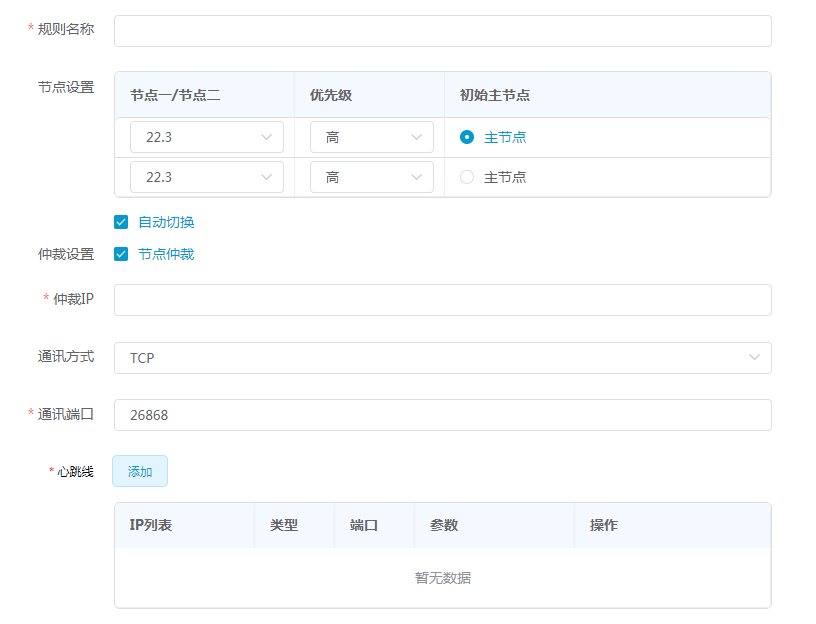
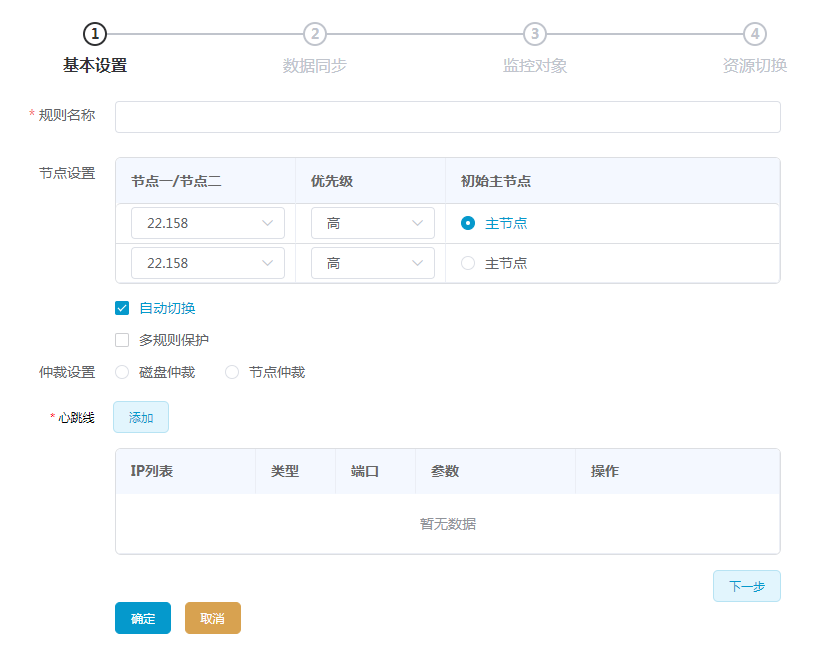
HA模块跟进6.2，新建页面加入多规则保护和磁盘仲裁选项;

diff --git a/i2availability/new_ha_rep.md b/i2availability/new_ha_rep.md
@@ -22,9 +22,13 @@
 
 *   “自动切换”：勾选自动切换时，当HA规则达到切换标准时，会自动从主节点切换为从节点；不勾选时，当HA规则达到切换标准时，在界面规则状态中会提示警告信息；
 
-*   “仲裁设置”：使用节点仲裁时需要设置一个仲裁ip地址，这个仲裁ip所在的主机需要安装i2节点软件，并且i2Availability进程正常运行，在心跳线全部失效的情况下，要用到仲裁机制来判断谁能接管资源；
+*   “多规则保护”：用于控制多规则保护情况下是否切换；
 
- **注**：当前只支持节点仲裁
+*   “仲裁设置”：分为磁盘仲裁和节点仲裁：
+    
+    勾选磁盘仲裁时需要设置一个仲裁磁盘;
+
+    勾选节点仲裁时需要设置一个仲裁ip地址，这个仲裁ip所在的主机需要安装i2节点软件，并且i2Availability进程正常运行，在心跳线全部失效的情况下，要用到仲裁机制来判断谁能接管资源；
  
 ![](/assets/V7.028618.png)
 
